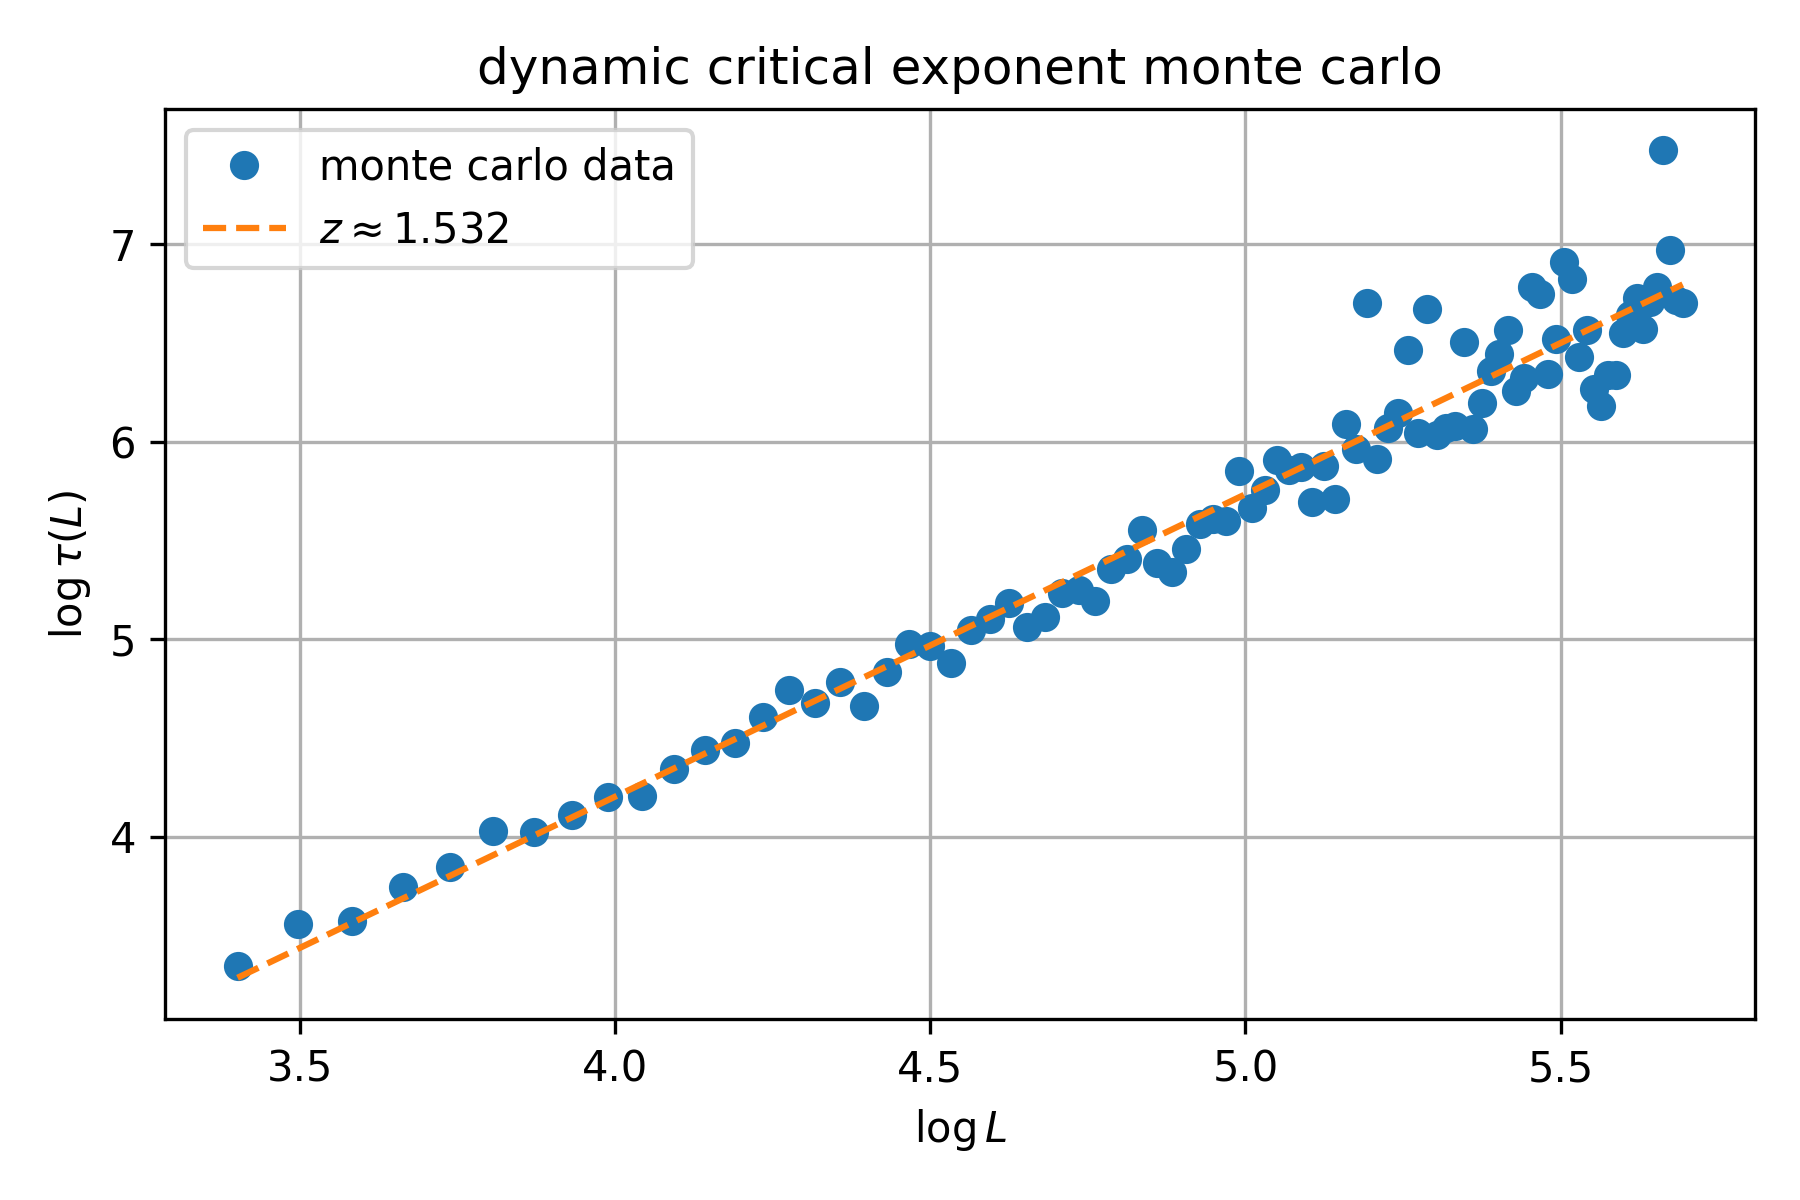
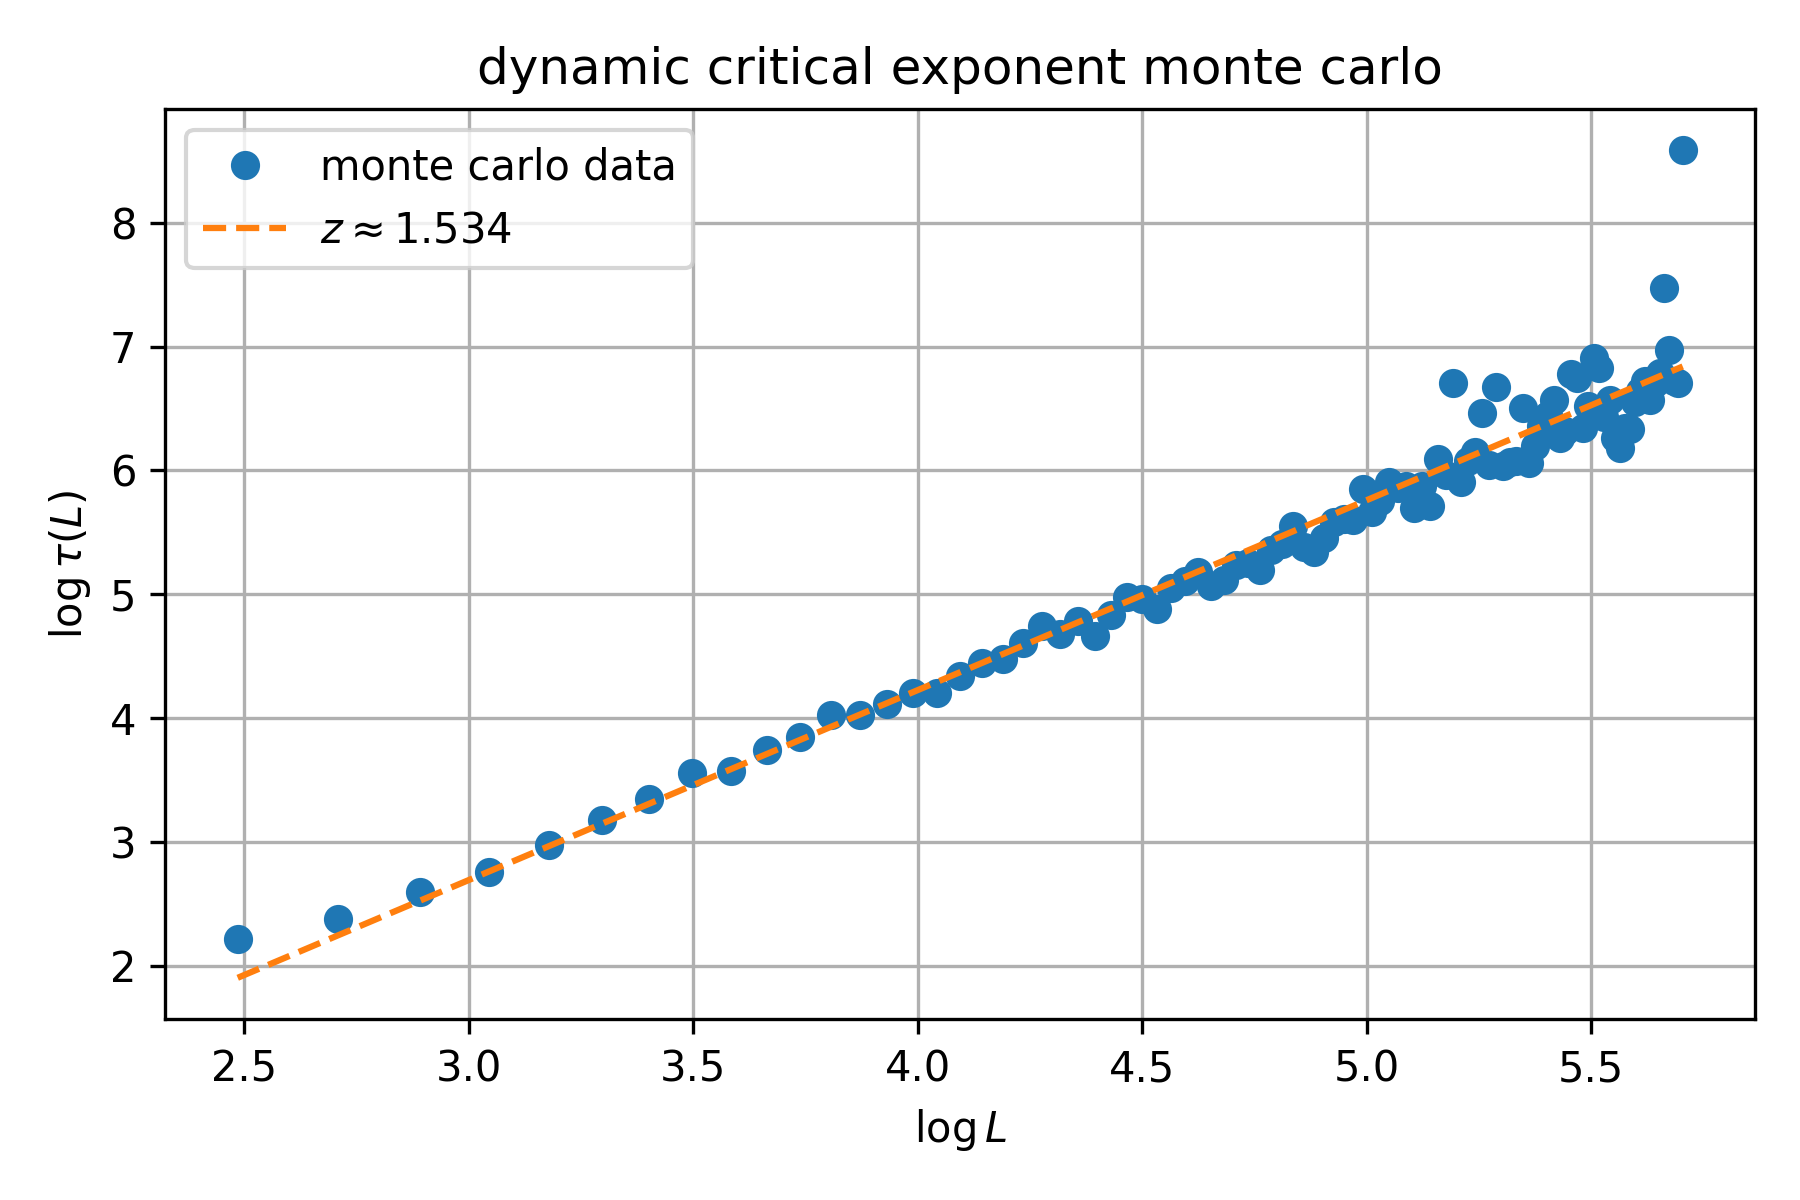
kpz relation stronger

diff --git a/src/main.py b/src/main.py
@@ -5,6 +5,9 @@ import numpy as np
 import matplotlib.pyplot as plt
 
 if __name__ == "__main__":
+    """
+    dimension 3 case: projects onto a plane.
+    """
     dimension = 3
     density = [1/3, 1/3, 1/3]
     length = 300
@@ -34,7 +37,7 @@ if __name__ == "__main__":
     plt.show()
 
     """
-    Dimension 4 case: projects onto a 3D hyperplane.
+    dimension 4 case: projects onto a cube.
     """
     dimension = 4
     density = [1/4, 1/4, 1/4, 1/4]

diff --git a/src/kpz.py b/src/kpz.py
@@ -30,7 +30,7 @@ def autocorrelation(x):
 
 def get_dynamical_critical_exponent(species_size):
     taus = []
-    L_values = np.arange(species_size*10, species_size*100, species_size)
+    L_values = np.arange(10+(species_size-10%species_size), 300+(species_size-300%species_size), species_size)
 
     for L in L_values:
         dimension = species_size